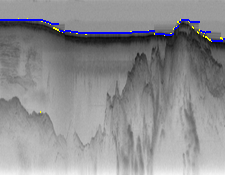
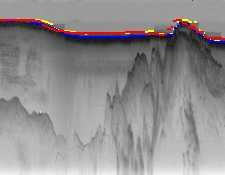
got a continuous viterbi, improved by human input

Changed region(s): [[0.2489, 0.1714, 0.7467, 0.2286], [0.7467, 0.0857, 1.0, 0.2571], [0.0, 0.0857, 0.28, 0.1714]]

diff --git a/part2/polar.py b/part2/polar.py
@@ -13,6 +13,7 @@ import sys
 import imageio
 from scipy.stats import norm
 import numpy as np
+import matplotlib.pyplot as plt
 
 # calculate "Edge strength map" of an image                                                                                                                                      
 def edge_strength(input_image):
@@ -21,47 +22,36 @@ def edge_strength(input_image):
     filters.sobel(grayscale,0,filtered_y)
     return sqrt(filtered_y**2)
 
+def get_emission(image, edge_strength):
+    nrows = edge_strength.shape[0]
+    ncols = edge_strength.shape[1]
+    emission = np.zeros((nrows, ncols))
+    for r in range(nrows):
+        for c in range(ncols):
+            emission[r][c] = edge_strength[r][c]/image[r][c]
+    emission_probs = emission/np.sum(emission, axis = 0)
+    return emission_probs
+
+
 
 # generate transition probabilities for a row to all rows in next column
 # This function takes row of column 1 and number of rows as input and returns the inverse 
 # exponential distance probability
-# @param: row: Row of current column
-# @param: len: Total number of rows in one column
-def get_distance_distr(row1, len):
-    diff =  [] 
-    dists = []
-    for row in range(0,edge_strength.shape[0]):
-        dist = abs(row1-row)+1
-       
-        #diff.append(1/(2**dist+1))
-        if dist <=6:
-            diff.append(1/((dist+1)))
-        else:
-            diff.append(1/(exp(dist)))
-        # if dist <=3:
-        #     diff.append(dist+1)
-        # else:
-        #     diff.append(2**dist)
-        #diff.append(dist*log(dist))
-        dists.append(dist)
-
-        """
+# @param: row1: Row of current column
+# @param: row2: Row of next column
+"""
         Some other distance distributions tried:
         1.) diff.append((len - dist)/len)
         2.) diff.append(1/(dist+1))
-        """
-    diff = diff/sum(diff)
-    #print(f'diff: {diff}')
-    #logdist = []
-    #print(len(dists))
-    # for i in range(edge_strength.shape[0]):
-    #     #if dists[i] <=2:
-    #         logdist.append(-diff[i]*np.log(diff[i]))
-    #     # else:
-    #     #     logdist.append(10000)
-    return diff
-
-
+"""
+def get_distance_distr1(row1, row2):
+     
+    dist = abs(row1-row2)
+    if dist <=6:
+        return -np.log(1/((dist+1)))
+    else:
+        return -np.log((2/(2**(dist+1)))**2) 
+        
 # draw a "line" on an image (actually just plot the given y-coordinates
 #  for each x-coordinate)
 # - image is the image to draw on
@@ -97,8 +87,8 @@ def draw_asterisk(image, pt, color, thickness):
 def write_output_image(filename, image, simple, hmm, feedback, feedback_pt):
     new_image = draw_boundary(image, simple, (255, 255, 0), 2)
     new_image = draw_boundary(new_image, hmm, (0, 0, 255), 2)
-    #new_image = draw_boundary(new_image, feedback, (255, 0, 0), 2)
-    #new_image = draw_asterisk(new_image, feedback_pt, (255, 0, 0), 2)
+    new_image = draw_boundary(new_image, feedback, (255, 0, 0), 2)
+    new_image = draw_asterisk(new_image, feedback_pt, (255, 0, 0), 2)
     imageio.imwrite(filename, new_image)
 
 # generate air-ice and ice-rock boundary using simple bayes
@@ -123,102 +113,166 @@ def get_bayes_rows(edge_strength):
     return (max_rows_list, next_rows_list)
 
 # 
-def get_hmm_rows(edge_strength):
+def get_hmm_rows(image,edge_strength):
     edge_strength = edge_strength+1
     ncols = edge_strength.shape[1]
     nrows = edge_strength.shape[0]
 
-    emission_probs = -np.log(edge_strength/np.sum(edge_strength, axis = 0))
     V_table = np.ones((nrows, ncols))
-    V_table[:,0] = emission_probs[:,0]
+    emission_probs = -np.log(get_emission(image, edge_strength))
+    V_table[:,0] = -np.log(edge_strength[:,0]/np.sum(edge_strength[:,0]))+ emission_probs[:,0]
 
     # # calculation for viterbi table 
     # as minimum cost function
 
+    min_state = np.zeros((nrows, ncols))
+
     # Calculation for air ice boundary
     for t in range(1, edge_strength.shape[1]):
         for row in range(edge_strength.shape[0]):
-            distance_distr = get_distance_distr(row, edge_strength.shape[0])
-            transition = -log(distance_distr)
-            V_table[row,t] = min(V_table[:,t-1]+transition+emission_probs[row, t])
-            
-    ridge = V_table.argmin(axis=0)
+            min_cost = np.Infinity
+            for r1 in range(edge_strength.shape[0]):
+
+                distance_distr = get_distance_distr1(row, r1)
+                transition = distance_distr
+                val = V_table[r1][t-1]+transition 
+                if(val < min_cost):
+                    min_cost = val
+                    min_state[row][t] = r1
+                    V_table[row][t] = min_cost + emission_probs[row][t]
+
+    mini = np.argmin(V_table[:,-1])
+    ridge_air_ice = np.zeros(ncols)
+    for col in range(ncols-1, -1, -1):
+        ridge_air_ice[col] = int(mini)
+        mini = min_state[int(mini)][col]
 
     # # Calculation for ice-rock boundary
 
-    V_table_ir = np.ones((nrows, ncols))*100000
-    median_air_ice_row = int(median(ridge))
+    V_table_ir = np.ones((nrows, ncols))*np.Infinity
+    min_state = np.zeros((nrows, ncols))
+    median_air_ice_row = int(median(ridge_air_ice))
     for row in range(median_air_ice_row+10, edge_strength.shape[0]):
-        V_table_ir[row,0] = -np.log(edge_strength[row][0]/np.sum(edge_strength[:,0]))
+        V_table_ir[row,0] = -np.log(edge_strength[row][0]/np.sum(edge_strength[:,0])) + emission_probs[row,0]
 
+    for col in range(ncols):
+        V_table_ir[int(ridge_air_ice[col]),col] = np.Infinity
+    
     for t in range(1, edge_strength.shape[1]):
-            for row in range(median_air_ice_row+10, edge_strength.shape[0]):
-                distance_distr = get_distance_distr(row, edge_strength.shape[0])
-                #transition = distance_distr
-                transition = -log(distance_distr)
-                #print(f'row: {row}, dist: {distance_distr}, transition: {transition}')
+            for row in range(int(ridge_air_ice[t])+10, edge_strength.shape[0]):
+                min_cost = np.Infinity
+                for r1 in range(edge_strength.shape[0]):
 
-                V_table_ir[row, t] = min(V_table_ir[:,t-1]+transition+emission_probs[row, t])
-    ridge1 = V_table_ir.argmin(axis=0)
-    return (ridge,ridge1)
+                    distance_distr = get_distance_distr1(row, r1)
+                    #transition = distance_distr
+                    transition = distance_distr
+                    val = V_table_ir[r1][t-1]+transition 
+                    if(val < min_cost):
+                        min_cost = val
+                        min_state[row][t] = r1
+                        V_table_ir[row][t] = min_cost + emission_probs[row][t]
+                    
+    mini = np.argmin(V_table_ir[:,-1])
+    ridge_ice_rock = np.zeros(ncols)
+    for col in range(ncols-1, -1, -1):
+        ridge_ice_rock[col] = int(mini)
+        mini = min_state[int(mini)][col]
+    return (ridge_air_ice,ridge_ice_rock)
+
 
 def get_feedback_rows_air_ice(edge_strength, row_coord, col_coord):
     edge_strength = edge_strength+1
-
+    nrows = edge_strength.shape[0]
+    ncols = edge_strength.shape[1]
     emission_probs = edge_strength/sum(edge_strength, axis = 0)
     emission_probs = -np.log(emission_probs)
 
     #create viterbi table
     V_table = np.ones((edge_strength.shape[0], edge_strength.shape[1]))
-    V_table[:,0] = emission_probs[:,0]
-    V_table[:,col_coord] = emission_probs[:,col_coord]
+    V_table[:,col_coord] = np.Infinity
     V_table[row_coord,col_coord] = -np.log(1)
+    min_state = np.zeros((nrows, ncols))
 
     for t in range(col_coord-1, 0,-1):
-        for row in range(edge_strength.shape[0]-1,-1, -1):
-            distance_distr = get_distance_distr(row, edge_strength.shape[0])
-            transition = -log(distance_distr)
-            V_table[row,t] = min(V_table[:,t+1]+transition+emission_probs[row, t])
+        for row in range(0, nrows):
+            min_cost = np.Infinity
+            for r1 in range(edge_strength.shape[0]):
+
+                distance_distr = get_distance_distr1(row, r1)
+                transition = distance_distr
+                val = V_table[r1][t+1]+transition 
+                if(val < min_cost):
+                    min_cost = val
+                    min_state[row][t] = r1
+                    V_table[row][t] = min_cost + emission_probs[row][t]
     
     for t in range(col_coord+1, edge_strength.shape[1]):
         for row in range(edge_strength.shape[0]):
-            distance_distr = get_distance_distr(row, edge_strength.shape[0])
-            transition = -log(distance_distr)
-            V_table[row,t] = min(V_table[:,t-1]+transition+emission_probs[row, t])
+            min_cost = np.Infinity
+            for r1 in range(edge_strength.shape[0]):
+
+                distance_distr = get_distance_distr1(row, r1)
+                transition = distance_distr
+                val = V_table[r1][t-1]+transition 
+                if(val < min_cost):
+                    min_cost = val
+                    min_state[row][t] = r1
+                    V_table[row][t] = min_cost + emission_probs[row][t]
             
-    ridge = []
-    ridge = np.argmin(V_table, axis = 0)
-    
+    mini = np.argmin(V_table[:,-1])
+    ridge = np.zeros(ncols)
+    for col in range(ncols-1, -1, -1):
+        ridge[col] = int(mini)
+        mini = min_state[int(mini)][col]    
 
     return ridge
 
 def get_feedback_rows_ice_rock(edge_strength, row_coord, col_coord, air_ice):
     edge_strength = edge_strength+1
-
+    nrows = edge_strength.shape[0]
+    ncols = edge_strength.shape[1]
     emission_probs = edge_strength/sum(edge_strength, axis = 0)
     emission_probs = -np.log(emission_probs)
 
     #create viterbi table
-    V_table = np.ones((edge_strength.shape[0], edge_strength.shape[1]))*10000
-    V_table[:,0] = emission_probs[:,0]
-    V_table[:,col_coord] = emission_probs[:,col_coord]
+    V_table = np.ones((edge_strength.shape[0], edge_strength.shape[1]))*np.Infinity
+    V_table[:,col_coord] = np.Infinity
     V_table[row_coord,col_coord] = -np.log(1)
-    median_airice = int(median(air_ice))
-
+    min_state = np.zeros((nrows, ncols))
+            
     for t in range(col_coord-1, 0,-1):
-        for row in range(edge_strength.shape[0]-1, median_airice+10, -1):
-            distance_distr = get_distance_distr(row, edge_strength.shape[0])
-            transition = -log(distance_distr)
-            V_table[row,t] = min(V_table[:,t+1]+transition+emission_probs[row, t])
+        for row in range(nrows):
+            min_cost = np.Infinity
+            for r1 in range(int(air_ice[t])+10, nrows):
+
+                distance_distr = get_distance_distr1(row, r1)
+                #transition = distance_distr
+                transition = distance_distr
+                val = V_table[r1][t+1]+transition 
+                if(val < min_cost):
+                    min_cost = val
+                    min_state[row][t] = r1
+                    V_table[row][t] = min_cost + emission_probs[row][t]
     
     for t in range(col_coord+1, edge_strength.shape[1]):
-        for row in range(median_airice+10, edge_strength.shape[0]):
-            distance_distr = get_distance_distr(row, edge_strength.shape[0])
-            transition = -log(distance_distr)
-            V_table[row,t] = min(V_table[:,t-1]+transition+emission_probs[row, t])
-            
-    ridge = []
-    ridge = np.argmin(V_table, axis = 0)
+        for row in range(int(air_ice[t])+10, edge_strength.shape[0]):
+            min_cost = np.Infinity
+            for r1 in range(edge_strength.shape[0]):
+
+                distance_distr = get_distance_distr1(row, r1)
+                transition = distance_distr
+                val = V_table[r1][t-1]+transition 
+                if(val < min_cost):
+                    min_cost = val
+                    min_state[row][t] = r1
+                    V_table[row][t] = min_cost + emission_probs[row][t]
+
+
+    mini = np.argmin(V_table[:,-1])
+    ridge = np.zeros(ncols)
+    for col in range(ncols-1, -1, -1):
+        ridge[col] = int(mini)
+        mini = min_state[int(mini)][col]
     return ridge
 
 # main program
@@ -238,7 +292,7 @@ if __name__ == "__main__":
     # compute edge strength mask -- in case it's helpful. Feel free to use this.
     edge_strength = edge_strength(input_image)
     simple_bayes = get_bayes_rows(edge_strength)
-    hmm_bayes = get_hmm_rows(edge_strength)
+    hmm_bayes = get_hmm_rows(image_array,edge_strength)
     imageio.imwrite('edges.png', uint8(255 * edge_strength / (amax(edge_strength))))
 
     # You'll need to add code here to figure out the results! For now,
